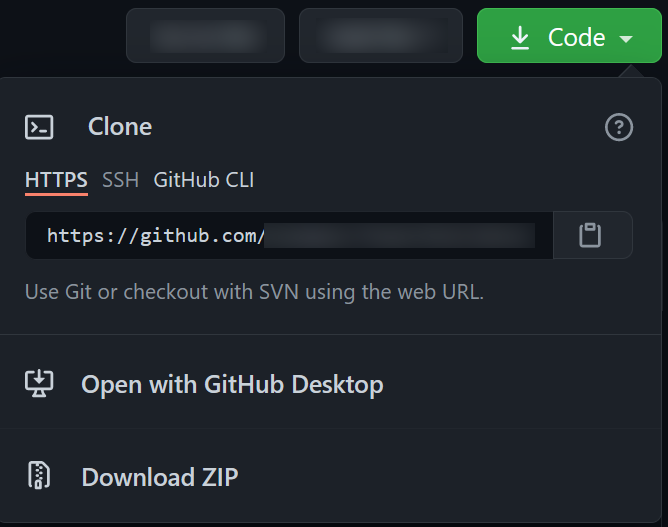
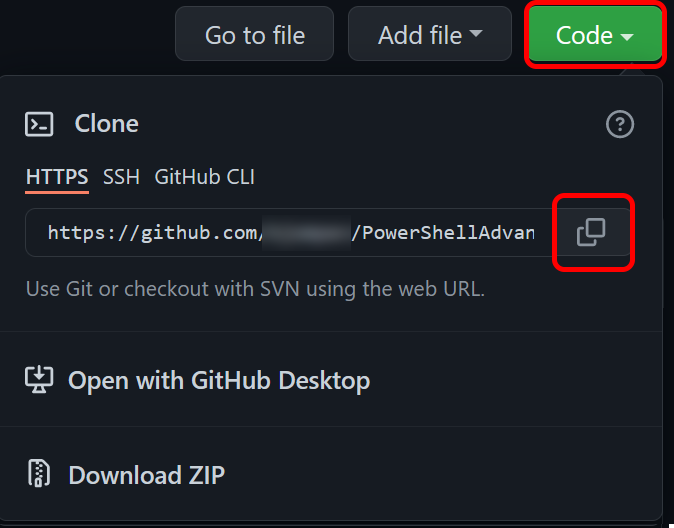
git started

diff --git a/01. git Started/Detailed.md b/01. git Started/Detailed.md
@@ -1,125 +1,91 @@
 # Lab 01. Detailed - git Started
 
-- Install [git](https://git-scm.com/downloads)
-  - Set default editor to VS Code
-  - git from Command Line and 3rd-party software
-  - Choose native Windows Secure Channel Library
+---
+
+- Fork the course repository on GitHub
+  - Clone the forked repository to your computer
+
+> - Use any browser and go to [AdvaniaSE on GitHub (https://github.com/AdvaniaSE/PowerShellAdvancedFundamentals)](https://github.com/AdvaniaSE/PowerShellAdvancedFundamentals)
+>
+> - Fork the course solution repository on GitHub by clicking the "fork" button in the top right.
+>
+>![fork](../Images/fork.png)
+>
+> - Verify you are now located in your own repository fork
+>
+>![forked repo](../Images/forkedRepo.png)
+>
+> - Click the "Code" button and select the "copy" icon to copy the clone URL to your reposiory
+>
+> ![clone from GitHub](../Images/clone.png)
+>
+> - In powershell, run the followin git command. This will create a subfolder with the same name as the repository and clone the contents to it.
+>
+> ```PowerShell
+> git clone <your copied URL>
+> ```
 
 ---
 
-- Create a local git repository
+- Create a new repository on your GitHub account and clone this to your computer
+  - Copy the contents from the `LabFiles` folder in the course repository to your newly created repository
+  - Push the changes to the GitHub
 
-```PowerShell
-# Set location for a directory to work in
-Set-Location 'C:\Temp'
-
-# Start by creating a folder for Lab 01
-New-Item -Name 'Lab01' -ItemType Directory
-
-# Move to the newly created folder
-Set-Location '.\Lab01'
-
-# Initialize a new git repository
-git init
-```
-
-- Create a text file \<YourName\>.txt
-
-```PowerShell
-$MyName = Read-Host 'What is your name?'
-New-Item -Name "$MyName.txt"
-```
-
-- Commit the text file to the git repository
-
-```PowerShell
-# First we need to stage the changes in our repository for our next commit
-git add --all
-```
-
-*Tip:* You can also use `git add .` to add all content in a directory recursively. In this case `git add <YourName>.txt` would have worked to add the single file.
-
-*Tip:* You can create a file called `.gitignore` to exclude certain files or directories from being included in your repository.
-
-```PowerShell
-# Before running the commit, you may need to configure git with a username and email so changes can be tracked to a user.
-git config --global user.name "MyUsername"
-git config --global user.email "My.EmailAddress@domain.com"
-```
-
-```PowerShell
-# Then commit the changes with a message indicating why the change was made
-git commit -m 'Added new file for lab 01'
-```
-
-- Add some text to the text file
-
-```PowerShell
-Set-Content -Value 'My file content' -Path "$MyName.txt"
-```
-
-- Commit the new changes
-
-```PowerShell
-# Once again we need to stage our changes before committing them
-git add --all
-
-git commit -m 'Added text to file in lab 01'
-```
+> - Use any browser and go to the repositories tab of your github page, https://github.com/YourGithubPage?tab=repositories
+>
+>On the right hand side of the page, click the "new" button
+>
+>![New repository](../Images/newRepo.png)
+>
+> - Give the repository a meaningfull name, and click create.
+>
+> - Clone this repo in the same way you cloned your "PowerShellAdvancedFundamentals" fork.
+>
+> - Copy the contents from the "PowerShellAdvancedFundamentals\LabFiles" folder to your cloned repo
+>
+> ```PowerShell
+> Copy-Item -Path .\PowerShellAdvancedFundamentals\LabFiles -Destination $yourNewRepoFolder
+> ```
+>
+> - Add the files as "staged" in Git, commit them, and push to the GitHub remote
+>
+> ```PowerShell
+> Set-Location $yourNewRepoFolder
+> git add .
+> git commit -m 'Initial creation of my files'
+> git push
+> ```
 
 ---
 
-- Create a GitHub account if you don't have one
-
-Go to [GitHub](https://github.com/) and sign up for a free account
-
-- Fork the course solution repository on GitHub
-
-  - Go to the specified course solution repository. If you're unsure which repository this is, please ask the course leader(s)
-  - Click the ![fork](../Images/fork.png) button
-
-- Clone the forked repository to your computer
-  - Click the Code button and copy the link
-
-![clone](../Images/clone.png)
+- Add a new file to your local repo on your computer named "Readme.md"
+  - Open the "Readme.md" file in VSCode and add a short description of your project
+  - Add the file to git, and push it to the remote GitHub repository
 
 ```PowerShell
-Set-Location 'C:\Temp'
+Set-Location $yourNewRepoFolder
+New-Item -name 'readme.md'
 
-git clone <your link>
-```
+# You can of course add text using powershell directly as well.
 
-- Add the text file with your name to the folder "Lab 01"
+$MyReadme = @'
+# This is my lab repo.
 
-```PowerShell
-# Change path to where you created your text file
-Copy-Item -Path "C:\Temp\Lab01\$MyName.txt" -Destination '.\PSSolutions\Lab01'
-```
+I'm learning git!
+'@
+$MyReadme | Set-Content -Path .\readme.md
 
-- Commit the changes to the repository
+# note! since git is not a native powershell command we dont need to use the .\ path locator for a file in the same directory
+git add readme.md
 
-```PowerShell
-# First stage changes to the repository before committing
-git add --all
+git commit -m 'added a readme file'
 
-git commit -m 'Added text file to Lab01 solutions'
-```
-
-- Push the changes to the forked repository on GitHub
-
-```PowerShell
-# You may have to login to GitHub to validate your credentials upon pushing to your repository
 git push
 ```
 
-- Create a pull request to the course solution repository on GitHub
-  
-  - Go to the forked repository on Github, click ![pr](../Images/pr.png) and create the pull request to the course solution repository.
-
----
-
 ## *More Reading*
 
+- [Git cheat sheet by RebelLabs](../Images/GitCheatSheet.png)
 - [git-scm](https://git-scm.com/docs/gittutorial)
 - [.gitignore](https://git-scm.com/docs/gitignore)
 - posh-git - A Git plugin for the PowerShell prompt. `Find-Module Posh-Git | Install-Module`

diff --git a/01. git Started/Lab.md b/01. git Started/Lab.md
@@ -1,24 +1,18 @@
 # Lab 01. git Started
 
-- Install [git](https://git-scm.com/downloads)
-  - Set default editor to VS Code
-  - git from Command Line and 3rd-party software
-  - Choose native Windows Secure Channel Library
+---
+
+- Fork the course repository on GitHub
+  - Clone the forked repository to your computer
 
 ---
 
-- Create a local git repository
-- Create a text file \<YourName\>.txt
-- Commit the text file to the git repository
-- Add some text to the text file
-- Commit the new changes
+- Create a new repository on your GitHub account and clone this to your computer
+  - Copy the contents from the `LabFiles` folder in the course repository to your newly created repository
+  - Push the changes to the GitHub
 
 ---
 
-- Create a GitHub account if you don't have one
-- Fork the course solution repository on GitHub
-- Clone the forked repository to your computer
-- Add the text file with your name to the folder "Lab 01"
-- Commit the changes to the repository
-- Push the changes to the fork on GitHub
-- Create a pull request to the course solution repository on GitHub
+- Add a new file to your local repo on your computer named "Readme.md"
+  - Open the "Readme.md" file in VSCode and add a short description of your project
+  - Add the file to git, and push it to the remote GitHub repository
